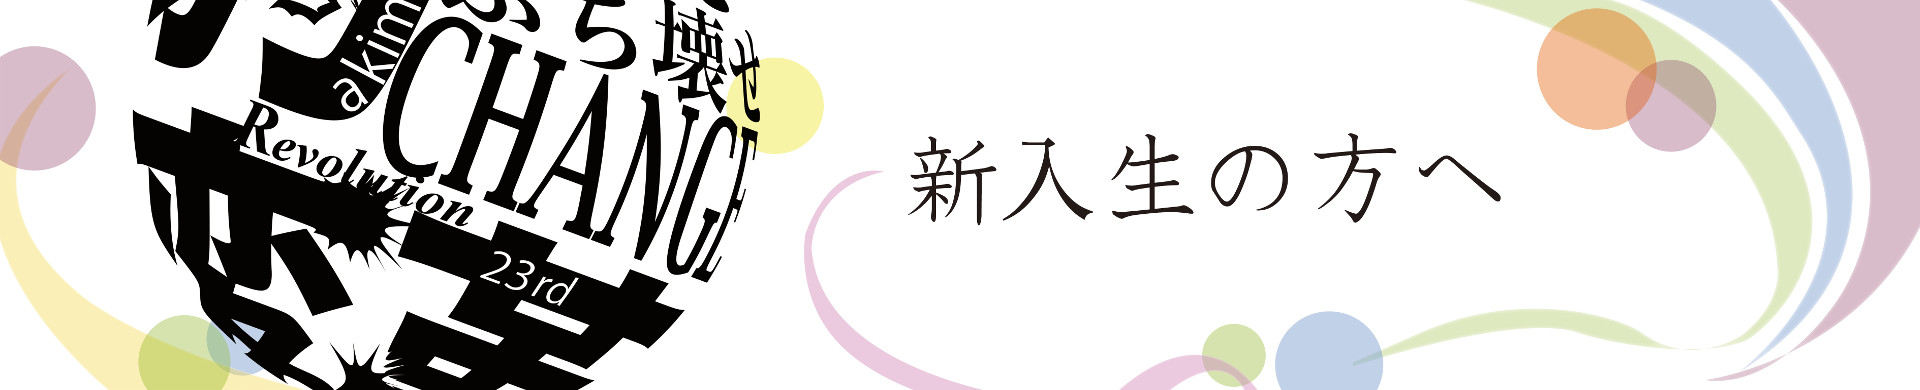
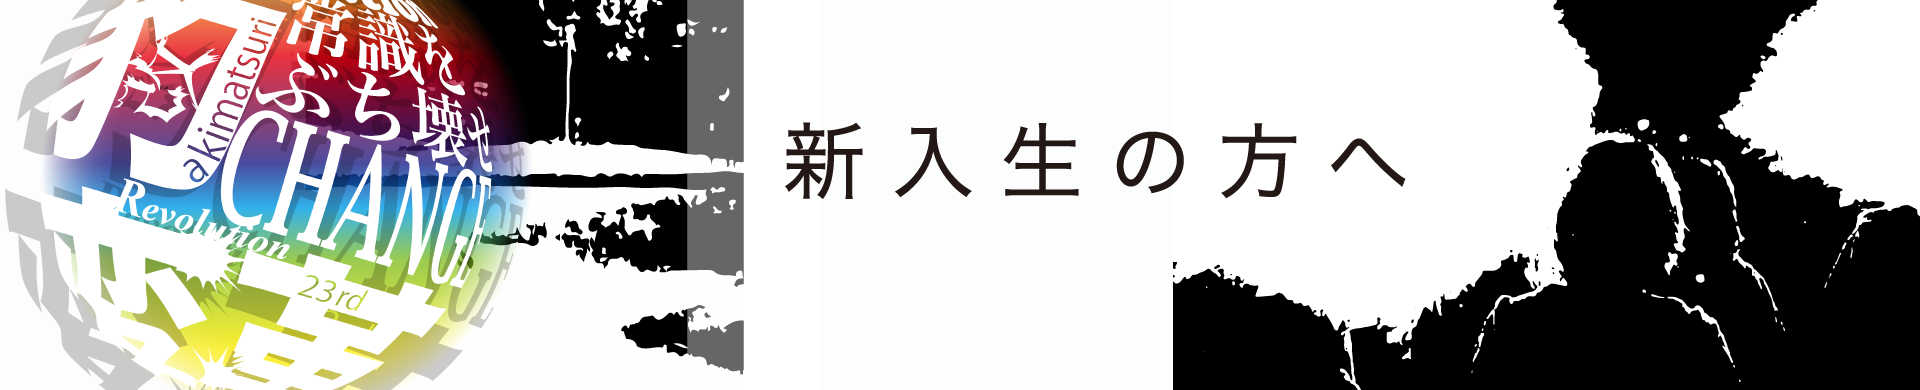
メイン画像入れ込み、誤リンク修正、bg削除

diff --git a/index.html b/index.html
@@ -35,8 +35,9 @@
 <meta property="og:site_name" content="第23回 慶應義塾大学秋祭 公式サイト">
 <meta property="og:description" content="慶應義塾大学秋祭の公式ホームページです。秋祭についての様々な情報を記載しています。適宜更新していくのでぜひチェックしてください！秋祭は今年も10月頃に開催予定です！">
 <meta property="og:locale" content="ja_JP">
+
 <meta property="fb:admins" content="357869064351783">
-<meta property="fb:app_id" content="facebookのアプリID">
+<meta property="fb:app_id" content="facebookのアプリID">←これがよさそう
 -->
 
 
@@ -115,7 +116,7 @@
 				<li><a href="event.html">企画紹介</a></li>
 				<li><a href="freshman.html">新入生の方へ</a></li>
 				<li><a href="participant.html">参加団体の方へ</a></li>
-				<li><a href="support/html">ご協賛について</a></li>
+				<li><a href="support.html">ご協賛について</a></li>
 				<li><a href="access.html">アクセス</a></li>
 			</ul>
 		</nav>

diff --git a/comingsoon.html b/comingsoon.html
@@ -115,7 +115,7 @@
 				<li><a href="event.html">企画紹介</a></li>
 				<li><a href="freshman.html">新入生の方へ</a></li>
 				<li><a href="participant.html">参加団体の方へ</a></li>
-				<li><a href="support/html">ご協賛について</a></li>
+				<li><a href="support.html">ご協賛について</a></li>
 				<li><a href="access.html">アクセス</a></li>
 			</ul>
 		</nav>

diff --git a/contact.html b/contact.html
@@ -115,7 +115,7 @@
 				<li><a href="event.html">企画紹介</a></li>
 				<li><a href="freshman.html">新入生の方へ</a></li>
 				<li><a href="participant.html">参加団体の方へ</a></li>
-				<li><a href="support/html">ご協賛について</a></li>
+				<li><a href="support.html">ご協賛について</a></li>
 				<li><a href="access.html">アクセス</a></li>
 			</ul>
 		</nav>

diff --git a/freshman.html b/freshman.html
@@ -115,7 +115,7 @@
 				<li><a href="event.html">企画紹介</a></li>
 				<li><a href="freshman.html">新入生の方へ</a></li>
 				<li><a href="participant.html">参加団体の方へ</a></li>
-				<li><a href="support/html">ご協賛について</a></li>
+				<li><a href="support.html">ご協賛について</a></li>
 				<li><a href="access.html">アクセス</a></li>
 			</ul>
 		</nav>
